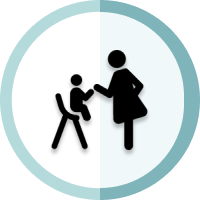
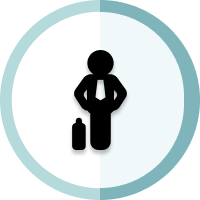
start work

Changed region(s): [[0.24, 0.24, 0.75, 0.78]]

diff --git a/index.html b/index.html
@@ -8,10 +8,11 @@
     <link href="https://fonts.googleapis.com/css2?family=Roboto:wght@100;300;400;500;700&display=swap" rel="stylesheet">
     <title>Document</title>
     <!--Подключение стилей-->
-    <link rel="stylesheet" type="text/css" href="styles/header/dist/header.css">
-    <link rel="stylesheet" type="text/css" href="styles/header/dist/reset.css">
-    <link rel="stylesheet" type="text/css" href="styles/header/dist/for_all.css">
-    <link rel="stylesheet" type="text/css" href="styles/header/dist/for-whom.css">
+    <link rel="stylesheet" type="text/css" href="styles/main/dist/header.css">
+    <link rel="stylesheet" type="text/css" href="styles/main/dist/reset.css">
+    <link rel="stylesheet" type="text/css" href="styles/main/dist/for_all.css">
+    <link rel="stylesheet" type="text/css" href="styles/main/dist/for-whom.css">
+    <link rel="stylesheet" type="text/css" href="styles/main/dist/about-course.css">
 </head>
 <body>
     <header>
@@ -19,14 +20,14 @@
             <img src="img/img1.svg" alt="">
             <div class="header-banner">
                 <h2>Онлайн тренинг</h2>
-                <h1><span>Как найти свое призвание за 21 день</span> по методике Nadi</h1>
+                <h1><span>Найди свое призвание</span></h1>
                 <div class="btn-for-form" onclick="">Заполнить</div>
             </div>
         </div>
         <div class="mobile-header">
             <div class="text">
                 <h2>Онлайн тренинг</h2>
-                <h1><span>Как найти свое призвание за 21 день</span> по методике Nadi</h1>
+                <h1><span>Найди свое призвание</span></h1>
             </div>
             <img src="img/img1.svg" alt="">
             <div class="btn-for-form" onclick="">Заполнить</div>
@@ -35,24 +36,39 @@
 
     <div class="for-whom">
         <div class="for-whom-conrainer">
-            <h3>Этот курс для вас если вы:</h3>
+            <h3>Этот курс для вас, если вы:</h3>
             <div class="cards">
                 <div class="card">
                     <img src="img/Group 10.svg" alt="">
-                    <p>Хотите сменить работу</p>
+                    <p>Вам важно получать от работы удовольствие и доход, и ощущать, что вы несете пользу</p>
                 </div>
                 <div class="card">
                     <img src="img/Group 11.png" alt="">
-                    <p>Не знаете, кем хотите быть</p>
+                    <p>Вы хотите, чтобы с вами лично работал спецалист, разбирал конкретно вашу ситуацию, давал рекомендации, помогал преодолеть страхи</p>
                 </div>
                 <div class="card">
-                    <img src="img/Group 11.png" alt="">
-                    <p>Мама в декрете</p>
+                    <img src="img/Group 12.png" alt="">
+                    <p>Вы не знаете, кем хотите работать, либо есть несколько вариантов, но вы не уверены</p>
+                </div>
+                <div class="card">
+                    <img src="img/Group 6.png" alt="">
+                    <p>Вы хотите сэкономить несколько десятков тысяч рублей, и не покупать обучение профессиям методом тыка, а сразу выбрать верное направление</p>
                 </div>
             </div>
         </div>
     </div>
 
+    <div class="about-course">
+        <div class="container">
+            <h3>Почему этот курс работает:</h3>
+            <li>Вы проходите 32 различные техники с поддержкой и обратной связью, шаг за шагом приближаясь к пониманию себя и выбору профессии</li>
+            <li>Вы не просто определите подходящие варианты и один лучший из них, а выстроите понятный путь перехода к новому делу</li>
+            <li>Каждый ваш ответ подробно разбирается мной или куратором курса в зависимости от тарифа, а значит нет шансов остаться на старом месте</li>
+            <li>В последнем блоке вы обучаетесь планированию: как перейти к выбранному делу, как накопить подушку безопасности, где учиться, где брать поддерживающее окружение и т.д.</li>
+            <li>Все время прохождения курса вы будете выполнять простые упражнения, которые сфорируют новые нейронные связи в мозге и укрепят здоровую самооценку, веру в себя, научат вас видеть и использовать возможности. Это то, что останется с вами навсегда!</li>
+            <li>Эта программа основана на моем 7-летнем опыте живой, личной работы с людьми, которые ищут себя в профессии. Каждый запрос уникален, но всегда будет разобран и решён</li>
+        </div>
+    </div>
     <!--Подключаем скрипты-->
     <script src="js/dist/popup.dev.js"></script>
 </body>

diff --git a/styles/main/dist/for-whom.css b/styles/main/dist/for-whom.css
@@ -14,6 +14,16 @@ h1 span, h2 span, h3 span, h4 span, h6 span {
   font-weight: 500;
 }
 
+h3 {
+  font-size: 48px;
+}
+@media screen and (max-width: 500px) {
+  h3 {
+    font-size: 32px;
+    font-weight: normal;
+  }
+}
+
 .for-whom {
   width: 100%;
   background-color: #F0F8FA;
@@ -21,6 +31,7 @@ h1 span, h2 span, h3 span, h4 span, h6 span {
 .for-whom .for-whom-conrainer {
   padding: 70px 0;
   text-align: center;
+  padding: 50px 0;
   width: 70%;
   margin: auto;
   max-width: 1300px;
@@ -30,20 +41,15 @@ h1 span, h2 span, h3 span, h4 span, h6 span {
     width: 90%;
   }
 }
-.for-whom .for-whom-conrainer h3 {
-  font-size: 48px;
-}
-@media screen and (max-width: 500px) {
-  .for-whom .for-whom-conrainer h3 {
-    font-size: 32px;
-    font-weight: normal;
-  }
-}
 .for-whom .for-whom-conrainer .cards {
   margin-top: 50px;
   display: flex;
   justify-content: space-around;
   align-items: center;
+}
+.for-whom .for-whom-conrainer .cards .card p {
+  font-size: 18px;
+  margin-top: 15px;
 }
 @media screen and (max-width: 500px) {
   .for-whom .for-whom-conrainer .cards {
@@ -52,10 +58,7 @@ h1 span, h2 span, h3 span, h4 span, h6 span {
   .for-whom .for-whom-conrainer .cards .card {
     margin-bottom: 40px;
   }
-  .for-whom .for-whom-conrainer .cards .card p {
-    margin-top: 10px;
-  }
   .for-whom .for-whom-conrainer .cards .card img {
-    width: 70%;
+    width: 50%;
   }
 }

diff --git a/styles/main/for-whom.sass b/styles/main/for-whom.sass
@@ -7,22 +7,26 @@
         padding: 70px 0
         text-align: center
         @include block()
-        h3
-            font-size: 48px
-            @media screen and ( max-width: 500px )
-                font-size: 32px
-                font-weight: normal
+        //h3
+        //    font-size: 48px
+        //    @media screen and ( max-width: 500px )
+        //        font-size: 32px
+        //        font-weight: normal
         .cards
             margin-top: 50px
             display: flex
             justify-content: space-around
             align-items: center
+            .card
+                p
+                    font-size: 18px
+                    margin-top: 15px
             @media screen and ( max-width: 500px )
                 flex-direction: column
                 .card
                     margin-bottom: 40px
-                    p
-                        margin-top: 10px
+                    //p
+                    //    margin-top: 10px
                     img
-                        width: 70%
+                        width: 50%
         

diff --git a/styles/main/dist/about-course.css b/styles/main/dist/about-course.css
@@ -1,0 +1,52 @@
+* {
+  font-family: "Roboto", sans-serif;
+  color: #272727;
+}
+
+body {
+  background-color: #D9EDEE;
+}
+
+h1, h2, h3, h4, h6 {
+  font-weight: lighter;
+}
+h1 span, h2 span, h3 span, h4 span, h6 span {
+  font-weight: 500;
+}
+
+h3 {
+  font-size: 48px;
+}
+@media screen and (max-width: 500px) {
+  h3 {
+    font-size: 32px;
+    font-weight: normal;
+  }
+}
+
+.container {
+  padding: 50px 0;
+  width: 70%;
+  margin: auto;
+  max-width: 1300px;
+  padding: 50px 0;
+}
+@media screen and (max-width: 800px) {
+  .container {
+    width: 90%;
+  }
+}
+.container h3 {
+  text-align: center;
+  margin-bottom: 30px;
+}
+.container li {
+  font-size: 18px;
+  margin-bottom: 20px;
+  padding-left: 30px;
+  list-style: none;
+  background-image: url("../../../../img/task.png");
+  background-repeat: no-repeat;
+  background-position: left top;
+  background-size: 20px;
+}

diff --git a/styles/main/dist/header.css b/styles/main/dist/header.css
@@ -64,7 +64,6 @@ header .header-container .header-banner .btn-for-form {
   background-color: #37D8E4;
   margin-top: 20px;
   box-shadow: 3px 4px 10px rgba(110, 220, 228, 0.88);
-  font-weight: lighter;
 }
 header .header-container .header-banner .btn-for-form:hover {
   cursor: pointer;
@@ -81,6 +80,9 @@ header .mobile-header {
   margin: auto;
   height: 90vh;
   min-height: 400px;
+}
+header .mobile-header .text {
+  text-align: center;
 }
 @media screen and (max-width: 350px) {
   header .mobile-header {
@@ -104,7 +106,6 @@ header .mobile-header .btn-for-form {
   background-color: #37D8E4;
   margin-top: 20px;
   box-shadow: 3px 4px 10px rgba(110, 220, 228, 0.88);
-  font-weight: lighter;
 }
 header .mobile-header .btn-for-form:hover {
   cursor: pointer;

diff --git a/styles/main/about-course.sass b/styles/main/about-course.sass
@@ -1,0 +1,20 @@
+@import 'for_all.sass'
+
+.container
+    @include block()
+    padding: 50px 0 
+    h3
+        text-align: center
+        margin-bottom: 30px
+    li
+        font-size: 18px
+        margin-bottom: 20px
+        padding-left: 30px
+        list-style: none
+        background:
+            image: url('../../../../img/task.png')
+            repeat: no-repeat
+            position: left top
+            size: 20px
+
+            

diff --git a/styles/main/for_all.sass b/styles/main/for_all.sass
@@ -10,8 +10,15 @@ h1,h2,h3,h4,h6
     span
         font-weight: 500  
 
+h3
+    font-size: 48px
+    @media screen and ( max-width: 500px )
+        font-size: 32px
+        font-weight: normal
+
 //      MIXINS
 @mixin block()
+    padding: 50px 0
     width: 70%
     margin: auto
     max-width: 1300px

diff --git a/styles/main/dist/for_all.css b/styles/main/dist/for_all.css
@@ -13,3 +13,13 @@ h1, h2, h3, h4, h6 {
 h1 span, h2 span, h3 span, h4 span, h6 span {
   font-weight: 500;
 }
+
+h3 {
+  font-size: 48px;
+}
+@media screen and (max-width: 500px) {
+  h3 {
+    font-size: 32px;
+    font-weight: normal;
+  }
+}

diff --git a/styles/main/header.sass b/styles/main/header.sass
@@ -36,6 +36,8 @@ header
         flex-direction: column
         justify-content: center
         align-items: center
+        .text
+            text-align: center
         width: 90%
         margin: auto
         height: 90vh
